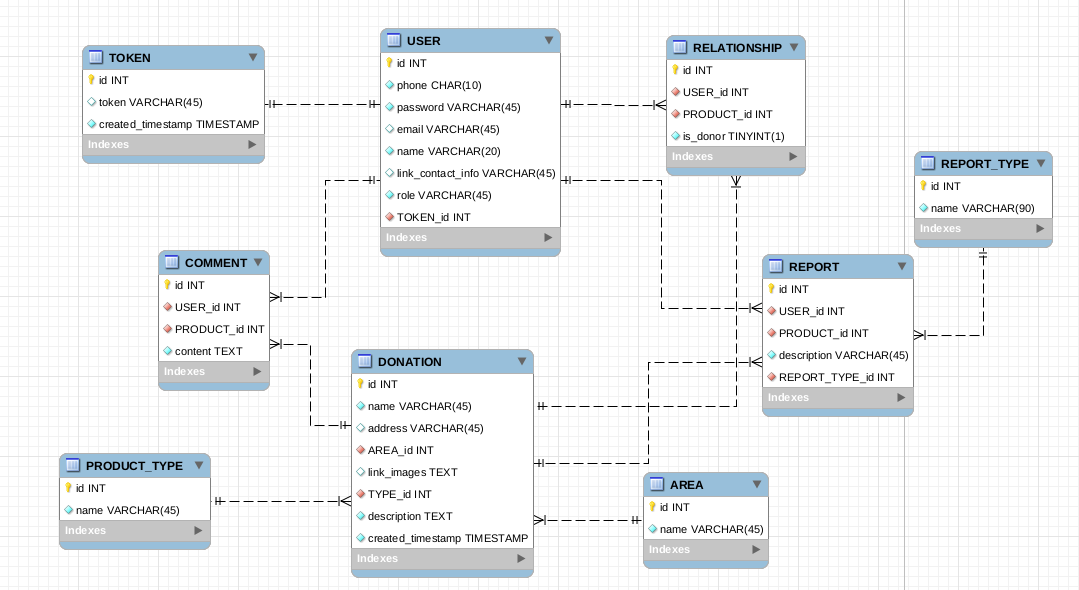
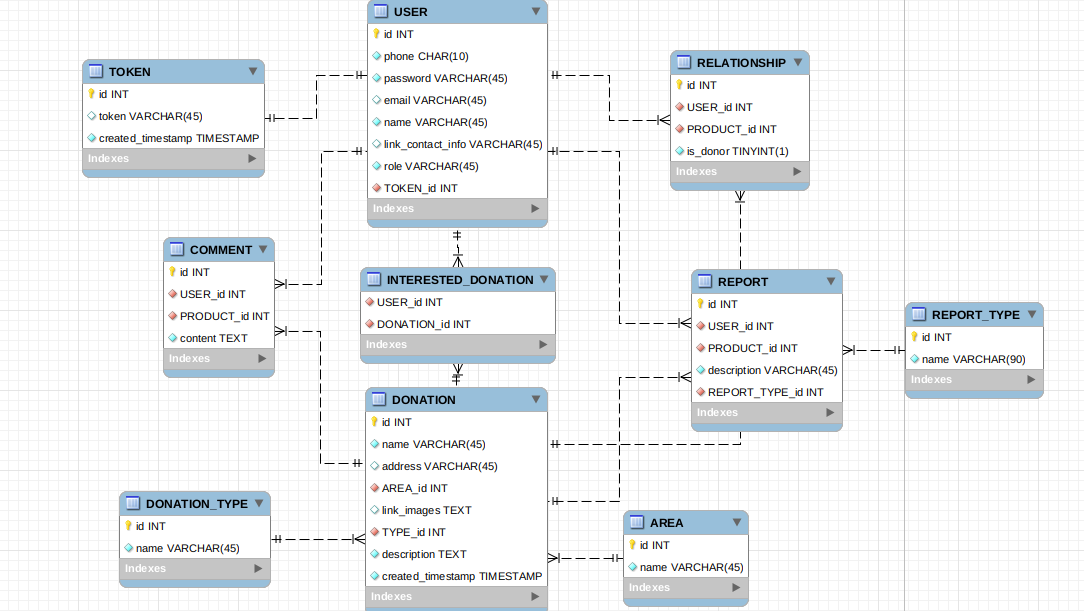
update DB

diff --git a/src/main/java/fpt/se1601/giveandget/reponsitory/entity/DonationType.java b/src/main/java/fpt/se1601/giveandget/reponsitory/entity/DonationType.java
@@ -9,18 +9,18 @@ import javax.persistence.*;
 import java.util.Set;
 
 @Entity
-@Table(name = "`PRODUCT_TYPE`")
+@Table(name = "`DONATION_TYPE`")
 @Getter
 @Setter
 @AllArgsConstructor
 @NoArgsConstructor
-public class ProductType {
+public class DonationType {
     @Id
     @GeneratedValue(strategy = GenerationType.IDENTITY)
     @Column(name = "id")
     private Integer id;
     @Column(name = "name")
     private String name;
-    @OneToMany(mappedBy = "productType")
+    @OneToMany(mappedBy = "donationType")
     private Set<Donation> donations;
 }

diff --git a/src/main/java/fpt/se1601/giveandget/reponsitory/entity/Donation.java b/src/main/java/fpt/se1601/giveandget/reponsitory/entity/Donation.java
@@ -29,8 +29,8 @@ public class Donation {
     @Column(name = "link_images")
     private String linkImages;
     @ManyToOne
-    @JoinColumn(name = "areaID")
-    private Area area;
+    @JoinColumn(name = "typeID")
+    private DonationType donationType;
     @Column(name = "description")
     private String description;
     @Column(name = "created_timestamp")
